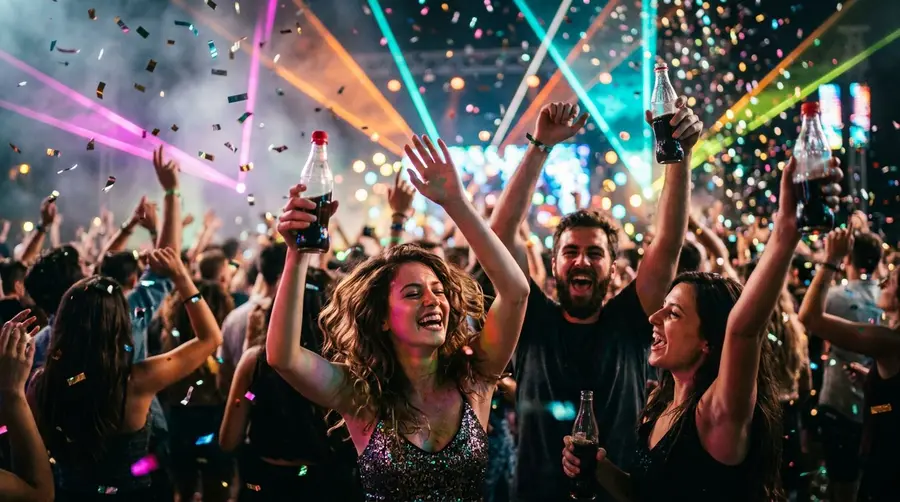
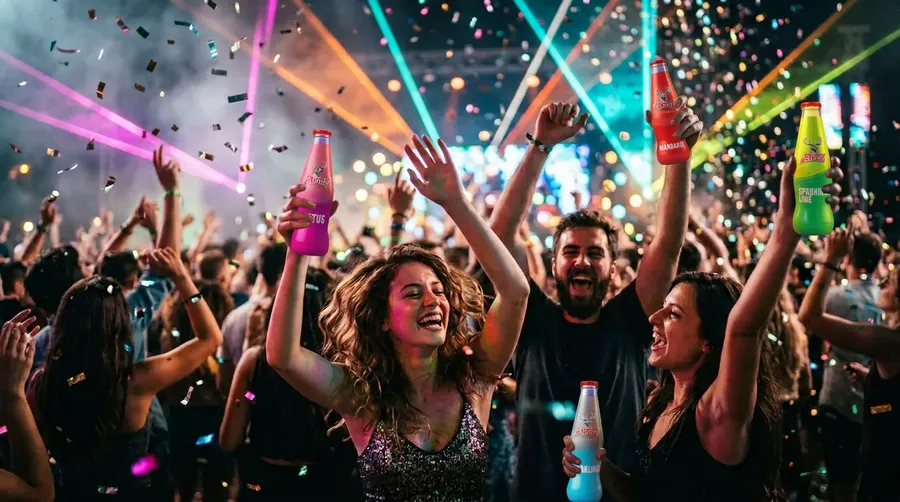
Story frames: party photos with ADRIN bottles in the fans' and DJ's hands

diff --git a/adrin-vitamin/src/sections/Story.tsx b/adrin-vitamin/src/sections/Story.tsx
@@ -70,16 +70,16 @@ export function Story() {
 
         {/* layered imagery */}
         <div className="relative mt-16 md:mt-24">
-          <div data-clip className="relative aspect-[4/5] overflow-hidden rounded-3xl sm:aspect-[16/10] lg:w-[78%]">
+          <div data-clip className="relative aspect-[4/5] overflow-hidden rounded-3xl sm:aspect-[16/9] lg:w-[78%]">
             <img
-              data-parallax="8"
+              data-parallax="5"
               src="/images/party1.webp"
-              srcSet="/images/party1-sm.webp 900w, /images/party1.webp 1800w"
+              srcSet="/images/party1-sm.webp 900w, /images/party1.webp 1376w"
               sizes="(min-width: 1024px) 78vw, 100vw"
-              alt="Friends cheering with bottles raised under lasers and falling confetti"
+              alt="Friends cheering under lasers and confetti, raising ADRIN Cactus, Mandarin, Sparkling Lime and Sparkling bottles"
               loading="lazy"
               decoding="async"
-              className="absolute inset-0 h-[120%] w-full -translate-y-[8%] object-cover object-[50%_45%]"
+              className="absolute inset-0 h-[114%] w-full -translate-y-[6%] object-cover object-[50%_45%] sm:object-[60%_45%]"
             />
             <div className="absolute inset-0 bg-gradient-to-t from-ink/80 via-transparent to-ink/20" />
             <div className="absolute bottom-5 left-5 font-tech text-[0.55rem] tracking-[0.3em] text-bone/70 md:bottom-8 md:left-8">
@@ -87,15 +87,15 @@ export function Story() {
             </div>
           </div>
 
-          <div className="relative -mt-24 ml-auto w-[68%] sm:w-[48%] md:-mt-48 lg:absolute lg:-bottom-28 lg:right-0 lg:mt-0 lg:w-[34%]">
+          <div className="relative -mt-24 ml-auto w-[68%] sm:w-[48%] md:-mt-48 lg:absolute lg:-bottom-64 lg:right-0 lg:mt-0 lg:w-[34%]">
             <div data-clip className="relative aspect-[4/5] overflow-hidden rounded-3xl border border-white/10 shadow-[0_40px_120px_-30px_rgba(0,0,0,0.9)]">
               <img
                 data-parallax="8"
-                src="/images/party2-sm.webp"
-                alt="A DJ seen from behind facing a festival crowd under coloured stage beams"
+                src="/images/party2.webp"
+                alt="A DJ seen from behind raising an ADRIN Mandarin bottle to a festival crowd, a Pomegranate bottle on the decks"
                 loading="lazy"
                 decoding="async"
-                className="absolute inset-0 h-[124%] w-full -translate-y-[10%] object-cover object-[46%_50%]"
+                className="absolute inset-0 h-[124%] w-full -translate-y-[10%] object-cover object-[55%_50%]"
               />
               <div className="absolute inset-0 bg-gradient-to-t from-ink/70 to-transparent" />
               <div className="absolute bottom-4 left-4 font-tech text-[0.55rem] tracking-[0.3em] text-bone/70">FRAME 02 · NO CURFEW</div>
@@ -108,7 +108,7 @@ export function Story() {
         </div>
 
         {/* manifesto */}
-        <div className="relative mt-24 grid gap-14 pb-24 md:mt-44 lg:grid-cols-12 lg:pb-36">
+        <div className="relative mt-24 grid gap-14 pb-24 md:mt-44 lg:mt-80 lg:grid-cols-12 lg:pb-36">
           <div className="lg:col-span-7">
             <SplitReveal as="p" type="words" stagger={0.025} className="font-display text-[clamp(1.6rem,3.1vw,3rem)] font-medium leading-[1.12] tracking-[-0.025em] text-bone">
               ADRIN is more than a drink. It&rsquo;s the moment the bass drops. Made for the ones who start the party, stay for the encore and{' '}
